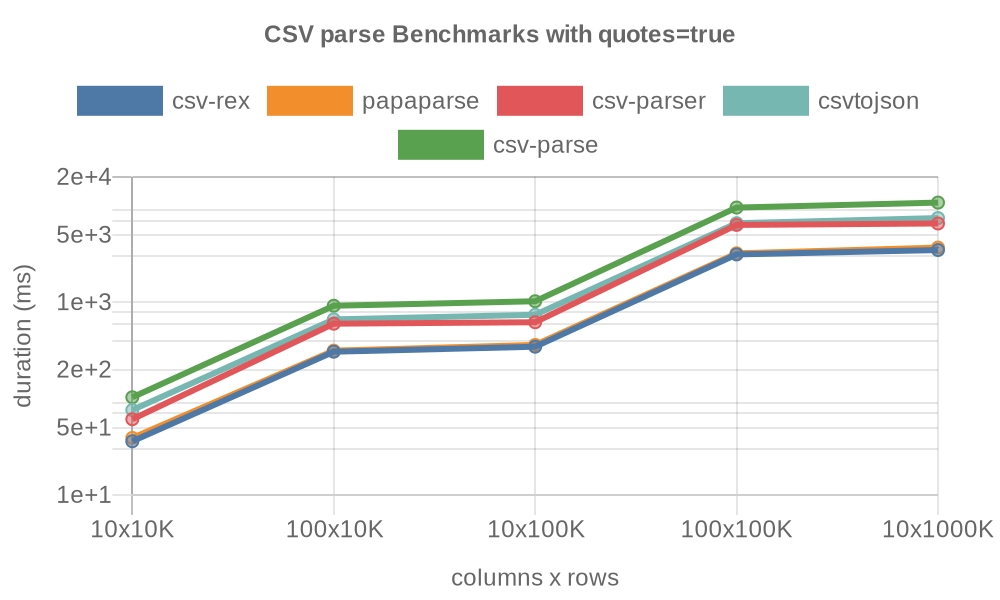
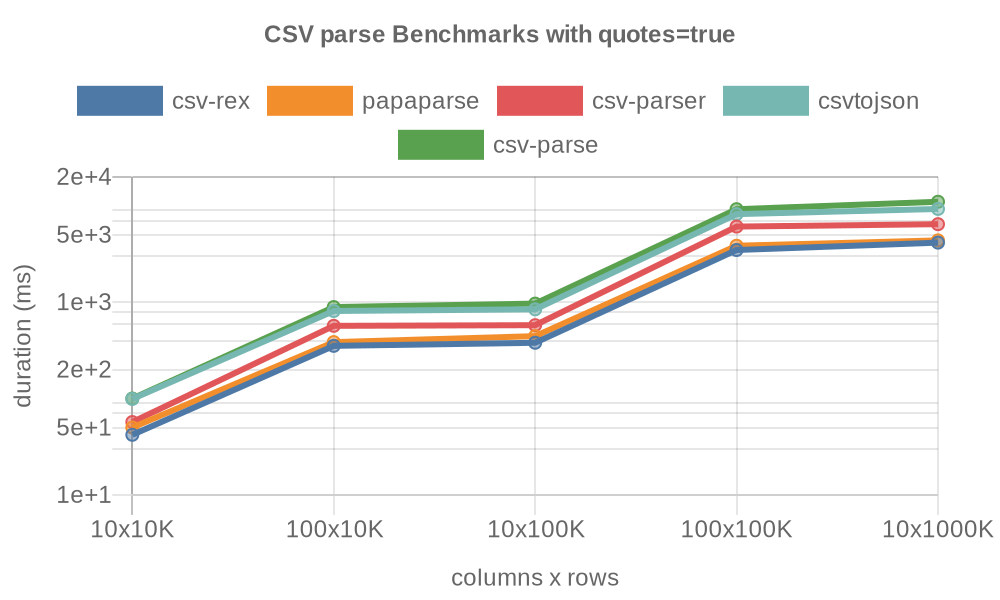
ci: update results

Changed region(s): [[0.124, 0.33, 0.961, 0.75]]

diff --git a/README.md b/README.md
@@ -5,13 +5,13 @@ Benchmarks of popular CSV parsers and formatters:
 <!-- packages -->
 | Package | Version | Published | Parse | Format 
 |---------|---------|-----------|-------|--------
-| [csv-parse](https://www.npmjs.com/package/csv-parse) | 5.3.0 | 1 month ago | Yes |  
+| [csv-parse](https://www.npmjs.com/package/csv-parse) | 5.3.0 | 2 months ago | Yes |  
 | [csv-parser](https://www.npmjs.com/package/csv-parser) | 3.0.0 | 2 years ago | Yes |  
-| [csv-rex](https://www.npmjs.com/package/csv-rex) | 0.3.0 | 11 days ago | Yes | Yes 
-| [csv-stringify](https://www.npmjs.com/package/csv-stringify) | 6.2.0 | 1 month ago |  | Yes 
+| [csv-rex](https://www.npmjs.com/package/csv-rex) | 0.4.0 | 0 days ago | Yes | Yes 
+| [csv-stringify](https://www.npmjs.com/package/csv-stringify) | 6.2.0 | 2 months ago |  | Yes 
 | [csvtojson](https://www.npmjs.com/package/csvtojson) | 2.0.10 | 3 years ago | Yes |  
 | [fast-csv](https://www.npmjs.com/package/fast-csv) | 4.3.6 | 2 years ago | Yes | Yes 
-| [papaparse](https://www.npmjs.com/package/papaparse) | 5.3.2 | 5 months ago | Yes |  
+| [papaparse](https://www.npmjs.com/package/papaparse) | 5.3.2 | 6 months ago | Yes |  
 <!-- packages -->
 
 Your preferred CSV package missing? PRs welcome.
@@ -38,12 +38,12 @@ Benchmarked on GitHub Actions. Only the fastest 5 will be visualized.
 <!-- parse quotes=true -->
 | Package | 10x10K | 100x10K | 10x100K | 100x100K | 10x1000K 
 |---------|---|---|---|---|---
-| **csv-rex** | 36ms | 306ms | 345ms | 3,129ms | 3,476ms 
-| **papaparse** | 39ms | 314ms | 360ms | 3,212ms | 3,686ms 
-| **csv-parser** | 61ms | 598ms | 619ms | 6,331ms | 6,556ms 
-| **csvtojson** | 76ms | 663ms | 740ms | 6,603ms | 7,460ms 
-| **csv-parse** | 103ms | 918ms | 1,022ms | 9,590ms | 10,799ms 
-| **fast-csv** | 166ms | 1,514ms | 1,710ms | 15,796ms | 17,612ms 
+| **csv-rex** | 42ms | 352ms | 379ms | 3,478ms | 4,149ms 
+| **papaparse** | 50ms | 385ms | 444ms | 3,851ms | 4,376ms 
+| **csv-parser** | 57ms | 568ms | 577ms | 6,088ms | 6,445ms 
+| **csvtojson** | 99ms | 810ms | 843ms | 8,195ms | 9,281ms 
+| **csv-parse** | 100ms | 890ms | 966ms | 9,225ms | 11,015ms 
+| **fast-csv** | 222ms | 1,962ms | 2,035ms | 18,866ms | 20,844ms 
 <!-- parse quotes=true -->
 
 ![Non-Quoted CSV Parser Benchmarks](https://github.com/willfarrell/csv-benchmarks/raw/main/results/parse_quotes%3Dfalse.png)
@@ -51,12 +51,12 @@ Benchmarked on GitHub Actions. Only the fastest 5 will be visualized.
 <!-- parse quotes=false -->
 | Package | 10x10K | 100x10K | 10x100K | 100x100K | 10x1000K 
 |---------|---|---|---|---|---
-| **papaparse** | 13ms | 66ms | 128ms | 615ms | 1,260ms 
-| **csv-rex** | 22ms | 180ms | 209ms | 1,801ms | 2,115ms 
-| **csvtojson** | 42ms | 378ms | 417ms | 3,797ms | 4,271ms 
-| **csv-parser** | 52ms | 521ms | 540ms | 5,483ms | 5,716ms 
-| **csv-parse** | 88ms | 806ms | 921ms | 8,377ms | 9,518ms 
-| **fast-csv** | 137ms | 1,255ms | 1,422ms | 13,313ms | 15,136ms 
+| **csv-rex** | 14ms | 87ms | 122ms | 929ms | 1,296ms 
+| **papaparse** | 18ms | 84ms | 170ms | 877ms | 1,739ms 
+| **csvtojson** | 50ms | 452ms | 519ms | 4,516ms | 5,331ms 
+| **csv-parser** | 54ms | 529ms | 535ms | 5,408ms | 5,460ms 
+| **csv-parse** | 90ms | 852ms | 916ms | 8,646ms | 9,394ms 
+| **fast-csv** | 156ms | 1,439ms | 1,533ms | 14,418ms | 17,720ms 
 <!-- parse quotes=false -->
 
 ### Format
@@ -66,9 +66,9 @@ Benchmarked on GitHub Actions. Only the fastest 5 will be visualized.
 <!-- format quotes=false -->
 | Package | 10x10K | 100x10K | 10x100K | 100x100K | 10x1000K 
 |---------|---|---|---|---|---
-| **csv-rex** | 30ms | 162ms | 293ms | 1,661ms | 3,065ms 
-| **csv-stringify** | 32ms | 169ms | 309ms | 1,686ms | 3,043ms 
-| **fast-csv** | 36ms | 188ms | 353ms | 1,908ms | 3,517ms 
+| **csv-stringify** | 39ms | 219ms | 395ms | 2,086ms | 3,585ms 
+| **csv-rex** | 37ms | 208ms | 356ms | 2,066ms | 3,936ms 
+| **fast-csv** | 43ms | 251ms | 438ms | 2,441ms | 4,534ms 
 <!-- format quotes=false -->
 
 ## Roadmap

diff --git a/results/parse_quotes=true.md b/results/parse_quotes=true.md
@@ -1,8 +1,8 @@
 | Package | 10x10K | 100x10K | 10x100K | 100x100K | 10x1000K 
 |---------|---|---|---|---|---
-| **csv-rex** | 36ms | 306ms | 345ms | 3,129ms | 3,476ms 
-| **papaparse** | 39ms | 314ms | 360ms | 3,212ms | 3,686ms 
-| **csv-parser** | 61ms | 598ms | 619ms | 6,331ms | 6,556ms 
-| **csvtojson** | 76ms | 663ms | 740ms | 6,603ms | 7,460ms 
-| **csv-parse** | 103ms | 918ms | 1,022ms | 9,590ms | 10,799ms 
-| **fast-csv** | 166ms | 1,514ms | 1,710ms | 15,796ms | 17,612ms 
+| **csv-rex** | 42ms | 352ms | 379ms | 3,478ms | 4,149ms 
+| **papaparse** | 50ms | 385ms | 444ms | 3,851ms | 4,376ms 
+| **csv-parser** | 57ms | 568ms | 577ms | 6,088ms | 6,445ms 
+| **csvtojson** | 99ms | 810ms | 843ms | 8,195ms | 9,281ms 
+| **csv-parse** | 100ms | 890ms | 966ms | 9,225ms | 11,015ms 
+| **fast-csv** | 222ms | 1,962ms | 2,035ms | 18,866ms | 20,844ms 

diff --git a/results/parse_quotes=false.md b/results/parse_quotes=false.md
@@ -1,8 +1,8 @@
 | Package | 10x10K | 100x10K | 10x100K | 100x100K | 10x1000K 
 |---------|---|---|---|---|---
-| **papaparse** | 13ms | 66ms | 128ms | 615ms | 1,260ms 
-| **csv-rex** | 22ms | 180ms | 209ms | 1,801ms | 2,115ms 
-| **csvtojson** | 42ms | 378ms | 417ms | 3,797ms | 4,271ms 
-| **csv-parser** | 52ms | 521ms | 540ms | 5,483ms | 5,716ms 
-| **csv-parse** | 88ms | 806ms | 921ms | 8,377ms | 9,518ms 
-| **fast-csv** | 137ms | 1,255ms | 1,422ms | 13,313ms | 15,136ms 
+| **csv-rex** | 14ms | 87ms | 122ms | 929ms | 1,296ms 
+| **papaparse** | 18ms | 84ms | 170ms | 877ms | 1,739ms 
+| **csvtojson** | 50ms | 452ms | 519ms | 4,516ms | 5,331ms 
+| **csv-parser** | 54ms | 529ms | 535ms | 5,408ms | 5,460ms 
+| **csv-parse** | 90ms | 852ms | 916ms | 8,646ms | 9,394ms 
+| **fast-csv** | 156ms | 1,439ms | 1,533ms | 14,418ms | 17,720ms 

diff --git a/results/format_quotes=false.md b/results/format_quotes=false.md
@@ -1,5 +1,5 @@
 | Package | 10x10K | 100x10K | 10x100K | 100x100K | 10x1000K 
 |---------|---|---|---|---|---
-| **csv-rex** | 30ms | 162ms | 293ms | 1,661ms | 3,065ms 
-| **csv-stringify** | 32ms | 169ms | 309ms | 1,686ms | 3,043ms 
-| **fast-csv** | 36ms | 188ms | 353ms | 1,908ms | 3,517ms 
+| **csv-stringify** | 39ms | 219ms | 395ms | 2,086ms | 3,585ms 
+| **csv-rex** | 37ms | 208ms | 356ms | 2,066ms | 3,936ms 
+| **fast-csv** | 43ms | 251ms | 438ms | 2,441ms | 4,534ms 
